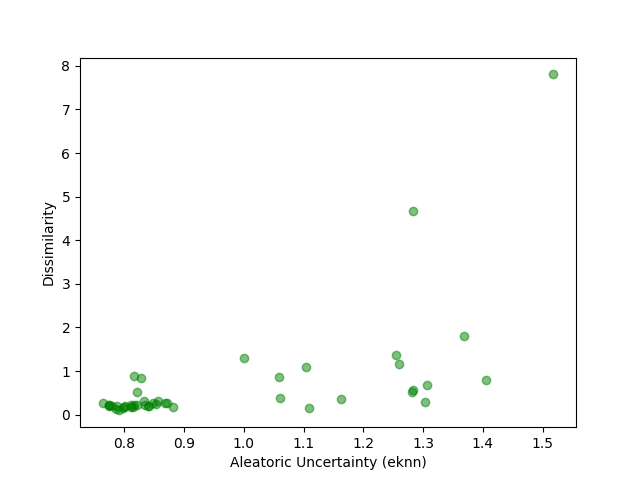
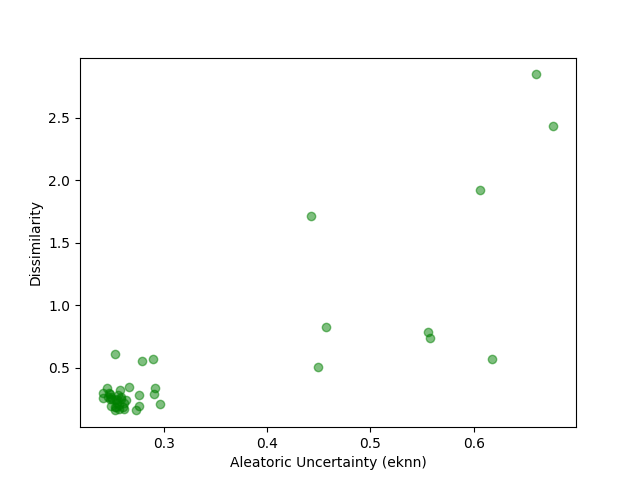
breast cancer

diff --git a/shapXp.py b/shapXp.py
@@ -114,7 +114,7 @@ def process_iteration(X, y, n_neighbors, epsilon, uncertainty):
         uncertainties = al + ep
     if uncertainty == "eknn":
         al, ep = unc.eknn_uncertainties(X_train, y_train, X_test)
-        uncertainties = al
+        uncertainties = al + ep
     if uncertainty == "centroids":
         al, ep = unc.centroids_uncertainties(X_train, y_train, X_test)
         uncertainties = al + ep
@@ -123,7 +123,7 @@ def process_iteration(X, y, n_neighbors, epsilon, uncertainty):
 def robustness_test(uncertainty, dataset):
     X, y = dt.load_data(dataset)
     
-    n_iterations = 10    # Number of iterations (increase for final experiments)
+    n_iterations = 5    # Number of iterations (increase for final experiments)
     n_neighbors = 30     # Number of neighbors to generate per test instance
     epsilon = sqrt(pow(0.1,2) * X.shape[1])        # Radius for generating neighbors
     
@@ -134,11 +134,10 @@ def robustness_test(uncertainty, dataset):
     results = Parallel(n_jobs=-1)(
         delayed(process_iteration)(X, y, n_neighbors, epsilon, uncertainty)
         for _ in range(n_iterations)
-    )
+    ) 
     end_time = time.time()
     print(f"Total parallel execution time: {end_time - start_time:.2f} seconds.")
 
-    # Unpack results: each element in results is a tuple (uncertainties, unrobust_values)
     global_uncertainties = np.concatenate([res[0] for res in results])
     global_unrobustness = np.concatenate([res[1] for res in results])
 
@@ -152,22 +151,20 @@ def robustness_test(uncertainty, dataset):
     avg_p_value /= n_iterations
     print(f"Average correlation coefficient ({dataset}_{uncertainty}): {avg_corr_coef}")
     print(f"Average p-value ({dataset}_{uncertainty}): {avg_p_value}")
-    # stat, p_val = spearmanr(global_unrobustness, global_uncertainties)
-    # print(stat, p_val)
     
-    # # Combine and sort by uncertainty
-    # combined = np.vstack((global_uncertainties, global_unrobustness)).T
-    # combined_sorted = combined[np.argsort(combined[:, 0])]
-    # # # Divide sorted data into 20 groups for smoothing
-    # # groups = np.array_split(combined_sorted, 20)
+    # Combine and sort by uncertainty
+    combined = np.vstack((global_uncertainties, global_unrobustness)).T
+    combined_sorted = combined[np.argsort(combined[:, 0])]
+    # # Divide sorted data into 20 groups for smoothing
+    # groups = np.array_split(combined_sorted, 20)
     
-    # # avg_uncertainties = [group[:, 0].mean() for group in groups]
-    # # avg_unrobustness = [group[:, 1].mean() for group in groups]
+    # avg_uncertainties = [group[:, 0].mean() for group in groups]
+    # avg_unrobustness = [group[:, 1].mean() for group in groups]
     
-    # plt.figure()
-    # # plt.scatter(avg_uncertainties, avg_unrobustness, marker='o', linestyle='-')
-    # plt.scatter(combined_sorted[:, 0], combined_sorted[:, 1], alpha=0.5, c='green')
-    # plt.xlabel(f"Aleatoric Uncertainty ({uncertainty})")
-    # plt.ylabel("Dissimilarity")
-    # # plt.title(f"Curve: Un-Robustness vs. Uncertainty ({n_iterations} iterations)")
-    # plt.savefig(f"figures/AL+EP/dissimilarity_vs_uncertainty_{dataset.lower()}_{uncertainty}.png")
+    np.save(f"output/data_{dataset.lower()}_{uncertainty}.npy", combined_sorted)
+    plt.figure()
+    plt.scatter(combined_sorted[:, 0], combined_sorted[:, 1], alpha=0.5, c='green')
+    plt.xlabel(f"Aleatoric + Epistiemic Uncertainty ({uncertainty})")
+    plt.ylabel("Dissimilarity")
+    # plt.title(f"Curve: Un-Robustness vs. Uncertainty ({n_iterations} iterations)")
+    plt.savefig(f"figures/AL+EP/dissimilarity_vs_uncertainty_{dataset.lower()}_{uncertainty}.png")

diff --git a/main.py b/main.py
@@ -1,24 +1,36 @@
 import shapXp as exp
 import data as dt
 import numpy as np
+import matplotlib.pyplot as plt
 
 if __name__ == "__main__":
     # exp.training_test()
-    dateset_names = [
-        # "BREAST_CANCER",
-        "HEART",
-        "IRIS",
-        # "SONAR",
-        "LIVER",
-        "WINE",
-        ]
-    uncertainties = [
-        # "entropy",
-        "eknn",
-        # "density",
-        # "centroids",
-    ]
-    for dataset_name in dateset_names:
-        for uncertainty in uncertainties:
-            exp.robustness_test(uncertainty, dataset_name)
-    print("Done!")
+    # dateset_names = [
+    #     "BREAST_CANCER",
+    #     # "HEART",
+    #     # "IRIS",
+    #     # "SONAR",
+    #     # "LIVER",
+    #     # "WINE",
+    #     ]
+    # uncertainties = [
+    #     # "entropy",
+    #     "eknn",
+    #     # "density",
+    #     # "centroids",
+    # ]
+    # for dataset_name in dateset_names:
+    #     for uncertainty in uncertainties:
+    #         exp.robustness_test(uncertainty, dataset_name)
+    # print("Done!")
+
+    data = np.load("output/data_breast_cancer_eknn.npy", allow_pickle=True)
+    print(data.shape)
+    X, y = dt.load_data("BREAST_CANCER")
+    print(X.shape)
+    plt.figure()
+    plt.scatter(data[:171, 0], data[:171, 1], alpha=0.5, c='green')
+    plt.xlabel(f"Aleatoric Uncertainty (eknn)")
+    plt.ylabel("Dissimilarity")
+    # plt.title(f"Curve: Un-Robustness vs. Uncertainty ({n_iterations} iterations)")
+    plt.savefig(f"figures/AL+EP/dissimilarity_vs_uncertainty_breast_cancer_eknn.png")
